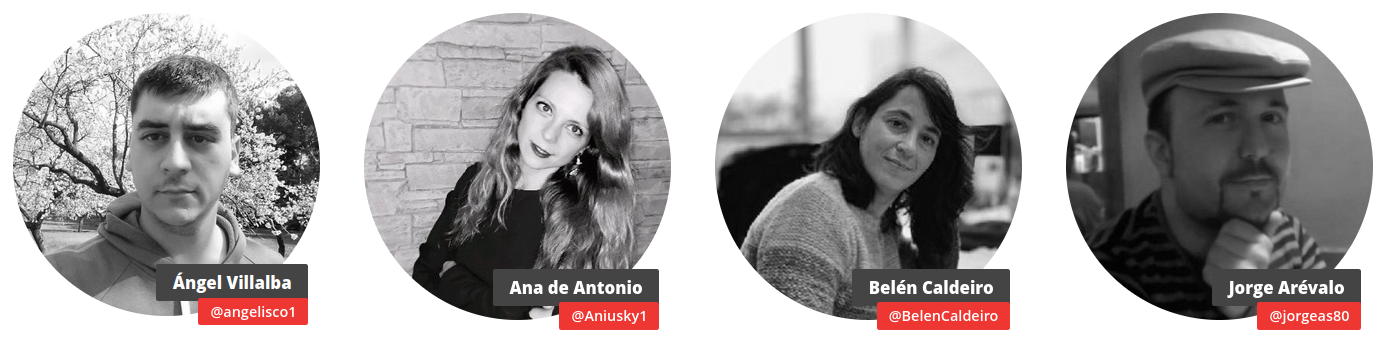
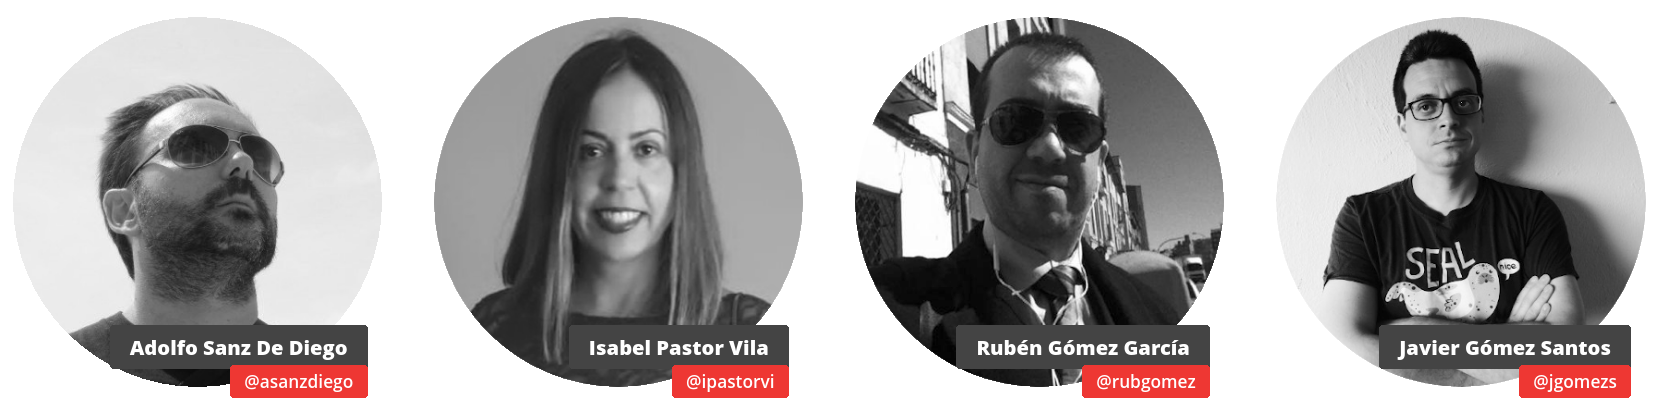
cambios en el team

diff --git a/index.html b/index.html
@@ -2513,7 +2513,7 @@
               <div class="member-photo text-center">
                 <img alt="Isabel Pastor Vila" class="img-circle" src="./v4.0/images/team/isabel-pastor-400-bn.png" />
                 <div class="member-name">Isabel Pastor Vila
-                  <span>@pronoide_isa</span>
+                  <span>@ipastorvi</span>
                 </div>
               </div>
               <!-- Memebr Words -->
@@ -2573,7 +2573,7 @@
               </div>
               <!-- Memebr Social Links -->
               <div class="member-social">
-                <a class="twitter itl-tooltip" data-placement="bottom" title="Twitter de Isabel Pastor Vila" href="http://twitter.com/pronoide_isa">
+                <a class="twitter itl-tooltip" data-placement="bottom" title="Twitter de Isabel Pastor Vila" href="http://twitter.com/ipastorvi">
                   <i class="fa fa-twitter"></i>
                   <span class="sr-only sr-only-focusable">Twitter de Isabel Pastor Vila</span>
                 </a>
@@ -2689,7 +2689,7 @@
               <div class="member-photo text-center">
                 <img alt="Javier Gómez Santos" class="img-circle" src="./v4.0/images/team/javier-gomez-santos-400-bn.png" />
                 <div class="member-name">Javier Gómez Santos
-                  <span>@Javi_Pronoide</span>
+                  <span>@jgomezs</span>
                 </div>
               </div>
               <!-- Memebr Words -->
